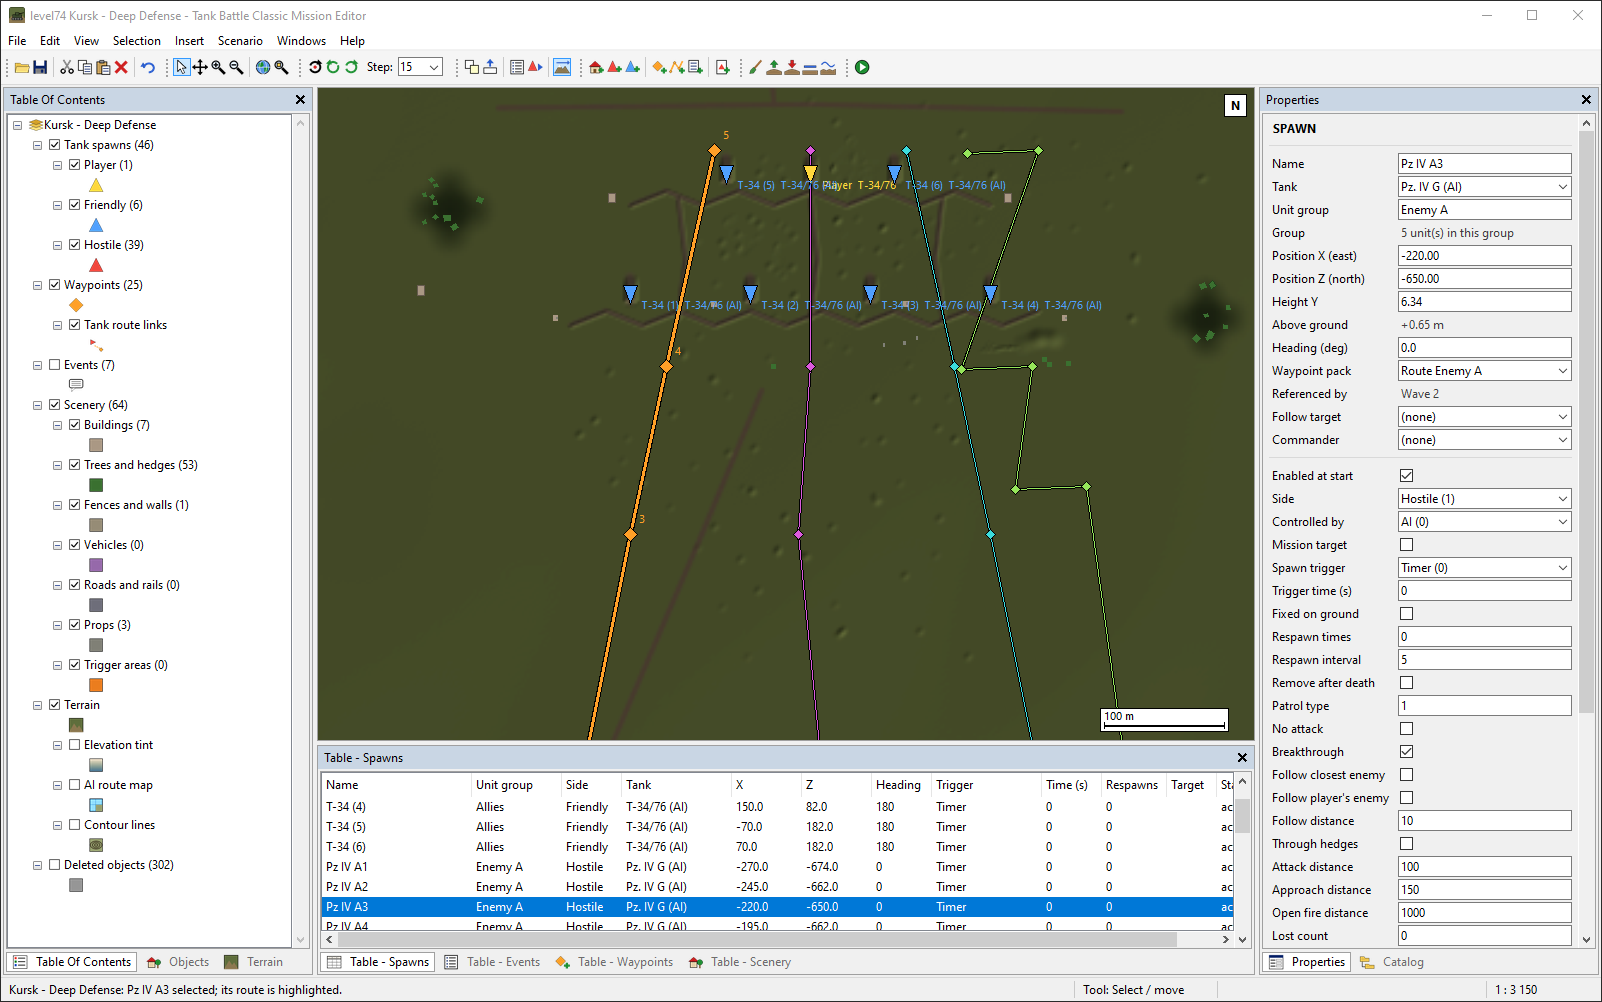
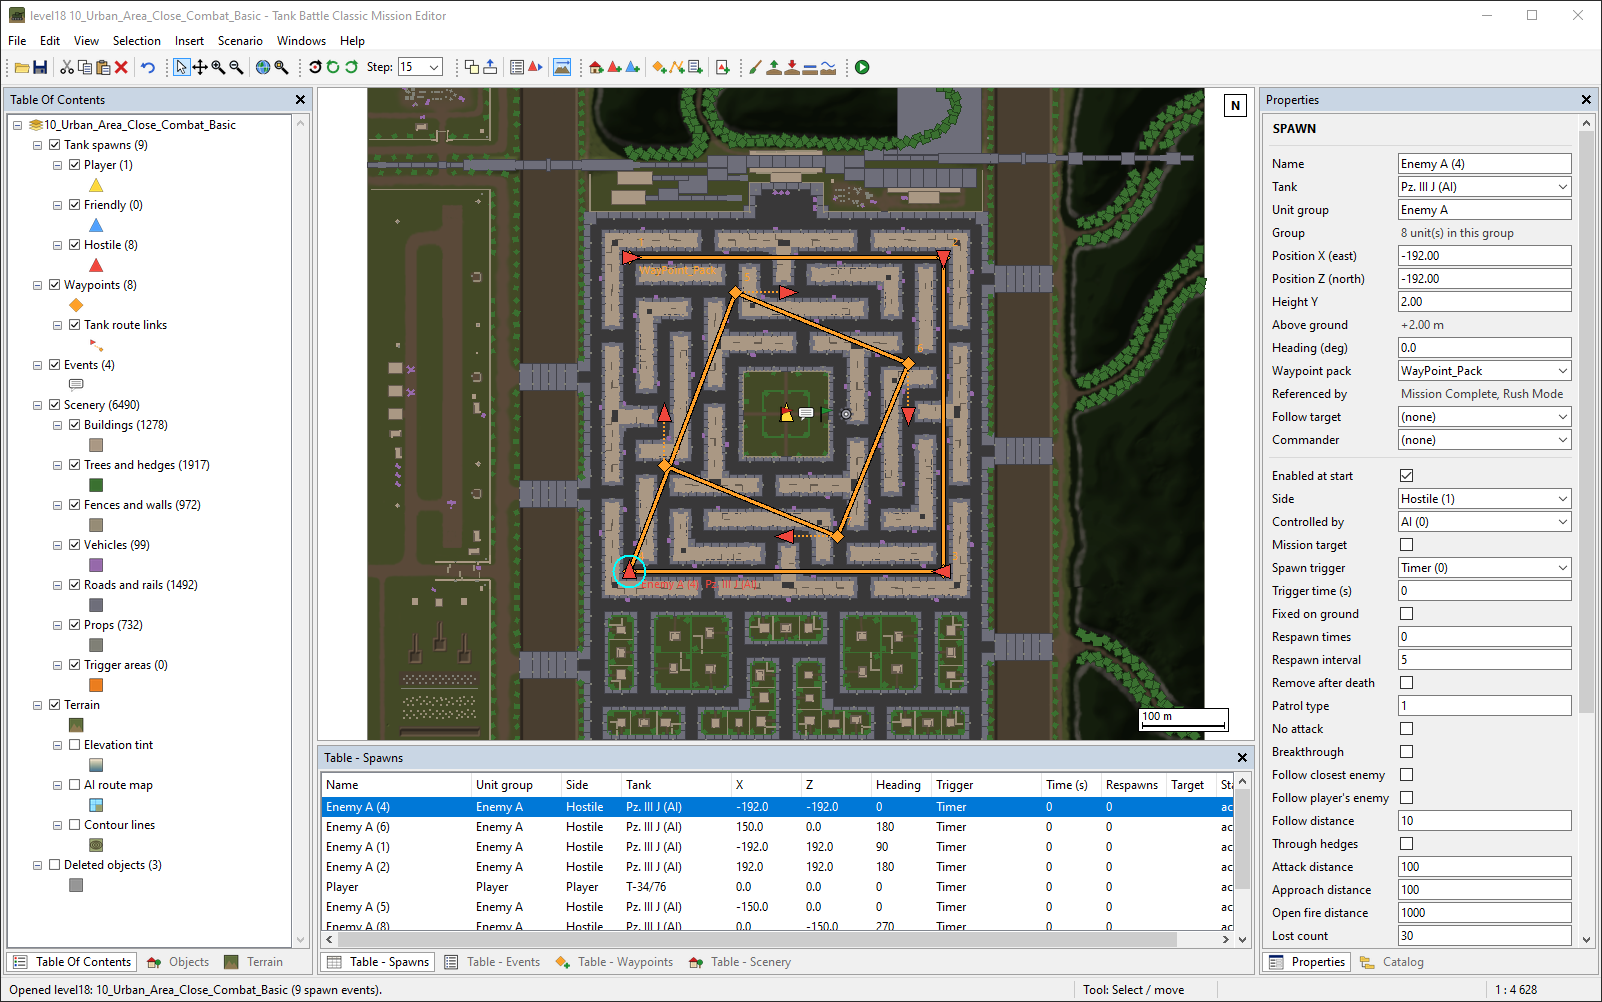
README: main screenshot of the Close Quarters Combat map in the current version

diff --git a/README.md b/README.md
@@ -6,7 +6,7 @@ is not affiliated with the game's developer or publisher. Buy the game from
 https://store.steampowered.com/app/5086560/Tank_Battle_Classic/
 
 
-![Main window: a custom scenario with a selected tank and its route, layers, spawn table and properties](docs/screenshot-main.png)
+![Main window: mission map with a selected tank and its route, layers, spawn table and properties](docs/screenshot-main.png)
 
 ![Events and trigger areas: the Objects pane, an event with its trigger area, and the events table](docs/screenshot-events.png)
 
